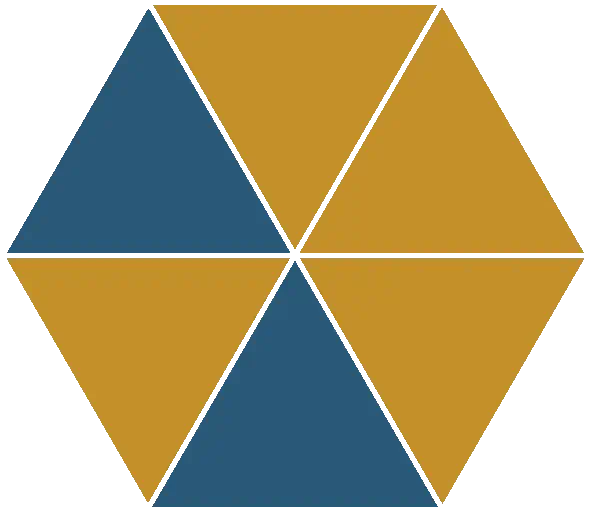
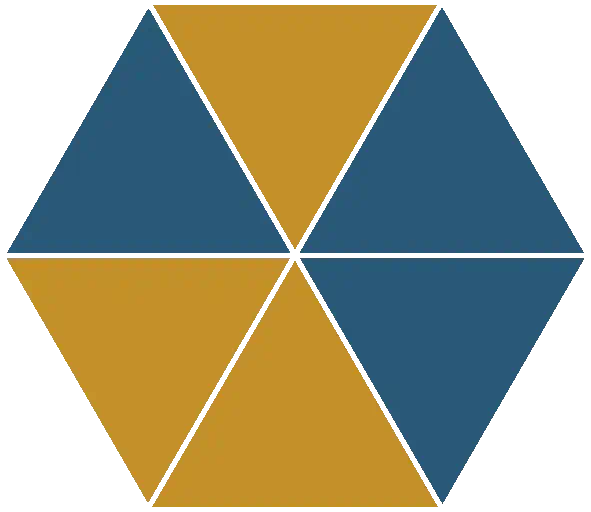
.

diff --git a/src/const.js b/src/const.js
@@ -35,20 +35,20 @@ export const ERR_ISLAND = 4;
 /////////////////////////////////////////////////
 
 export const DECK = [
-    ['🔵', '🔵', '🔵', '🔵', '🔵', '🔵'],
-    ['🔵', '🔵', '🔵', '🔵', '🔵', '🟡'],
-    ['🔵', '🔵', '🔵', '🔵', '🟡', '🟡'],
-    ['🔵', '🔵', '🔵', '🟡', '🔵', '🟡'],
-    ['🟡', '🔵', '🔵', '🟡', '🔵', '🔵'],
+    ['🔵', '🟡', '🔵', '🟡', '🔵', '🟡'],
+    ['🟡', '🔵', '🟡', '🔵', '🟡', '🔵'],
     ['🟡', '🔵', '🔵', '🟡', '🔵', '🟡'],
     ['🟡', '🔵', '🔵', '🔵', '🟡', '🟡'],
-    ['🔵', '🟡', '🔵', '🟡', '🔵', '🟡'],
     ['🟡', '🟡', '🔵', '🟡', '🔵', '🔵'],
-    ['🟡', '🟡', '🔵', '🟡', '🟡', '🔵'],
-    ['🟡', '🟡', '🟡', '🔵', '🟡', '🔵'],
-    ['🔵', '🟡', '🟡', '🟡', '🟡', '🔵'],
-    ['🟡', '🟡', '🟡', '🟡', '🟡', '🔵'],
-    ['🟡', '🟡', '🟡', '🟡', '🟡', '🟡'],
+    ['🟡', '🟡', '🔵', '🔵', '🟡', '🔵'],
+    ['🟡', '🟡', '🔵', '🔵', '🔵', '🟡'],
+    ['🔵', '🟡', '🟡', '🔵', '🟡', '🔵'],
+    ['🟡', '🔵', '🟡', '🟡', '🔵', '🔵'],
+    ['🔵', '🟡', '🟡', '🟡', '🔵', '🔵'],
+    ['🟡', '🔵', '🔵', '🟡', '🟡', '🔵'],
+    ['🔵', '🟡', '🔵', '🟡', '🟡', '🔵'],
+    ['🔵', '🔵', '🟡', '🟡', '🟡', '🔵'],
+    ['🔵', '🟡', '🔵', '🔵', '🟡', '🟡'],
 ];
 
 export const DIR_NW = { dr: -1, dc: -1 };

diff --git a/src/Game Page.svelte b/src/Game Page.svelte
@@ -11,7 +11,12 @@
 	import { underMouse } from './utils';
 
 	const onClick = (e) => {
-		if (underMouse(e, ['#menu', '#decks'])) {
+		if (underMouse(e, ['#menu', '#decks', '#rules', '#tutorial'])) {
+			e.stopPropagation();
+			return;
+		}
+
+		if (ss.rules || ss.tutorial) {
 			e.stopPropagation();
 			return;
 		}

diff --git a/src/Knob.svelte b/src/Knob.svelte
@@ -42,11 +42,11 @@
 	}
 
 	.hi1 {
-		filter: contrast(1.3) brightness(1.3);
+		filter: contrast(1.2) brightness(1.2);
 	}
 
 	.hi2 {
-		filter: contrast(1.6) brightness(1.6);
+		filter: contrast(1.3) brightness(1.3);
 	}
 
 	svg {
